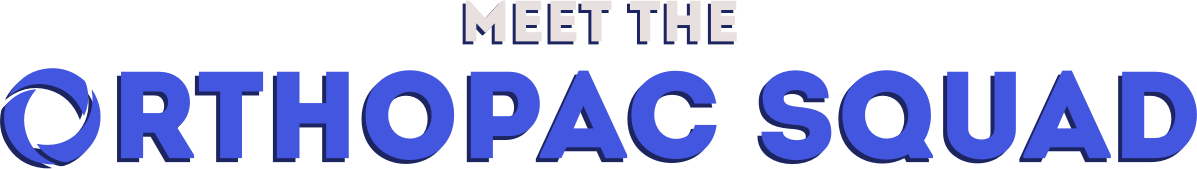
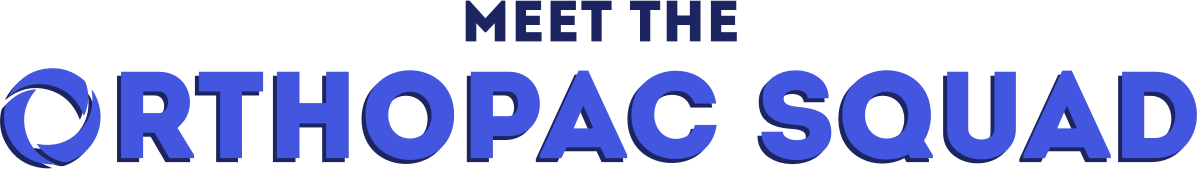
Add play button as svg and style, change title styling and videoHero bg gradient

Changed region(s): [[0.3709, 0.0, 0.6182, 0.2663]]

diff --git a/src/components/VideoHero.js b/src/components/VideoHero.js
@@ -1,19 +1,19 @@
 import React, { Component } from 'react'
-import { FaPlay } from 'react-icons/fa'
 
 import Title from '../images/videoHero/title.png'
 import Left from '../images/videoHero/heroes-left.svg'
 import Right from '../images/videoHero/heroes-right.svg'
+import Play from '../images/videoHero/play.svg'
 
 export default class VideoHero extends Component {
   render () {
     return (
       <div className="cover-image" style={{ height: 'calc(100vh - 110px)' }}>
-        <div className="container d-flex flex-column align-items-center justify-content-center">
+        <div className="container d-flex flex-column align-items-center justify-content-center h-100">
           <div className="d-flex flex-column justify-content-center">
             <img className="align-self-center img-fluid p-4 mt-4 w-75" src={Title}/>
-            <button className="btn btn-lg btn-primary align-self-center d-flex rounded-circle p-3 border border-white">
-              <FaPlay className="pl-1"/>
+            <button className="btn align-self-center">
+              <img src={Play} alt="Play" style={{ height: 75 }}/>
             </button>
           </div>
           <div className="row">

diff --git a/src/components/VideoHero.scss b/src/components/VideoHero.scss
@@ -1,7 +1,7 @@
 .cover-image {
   background-image:
     url('../images/videoHero/cover-bg.svg'),
-    linear-gradient(to bottom, lighten($dark, 50%), $dark 100%)
+    linear-gradient(to bottom, lighten($secondary, 35%), $secondary, $dark 100%)
   ;
   background-size: cover;
   background-repeat: no-repeat;
